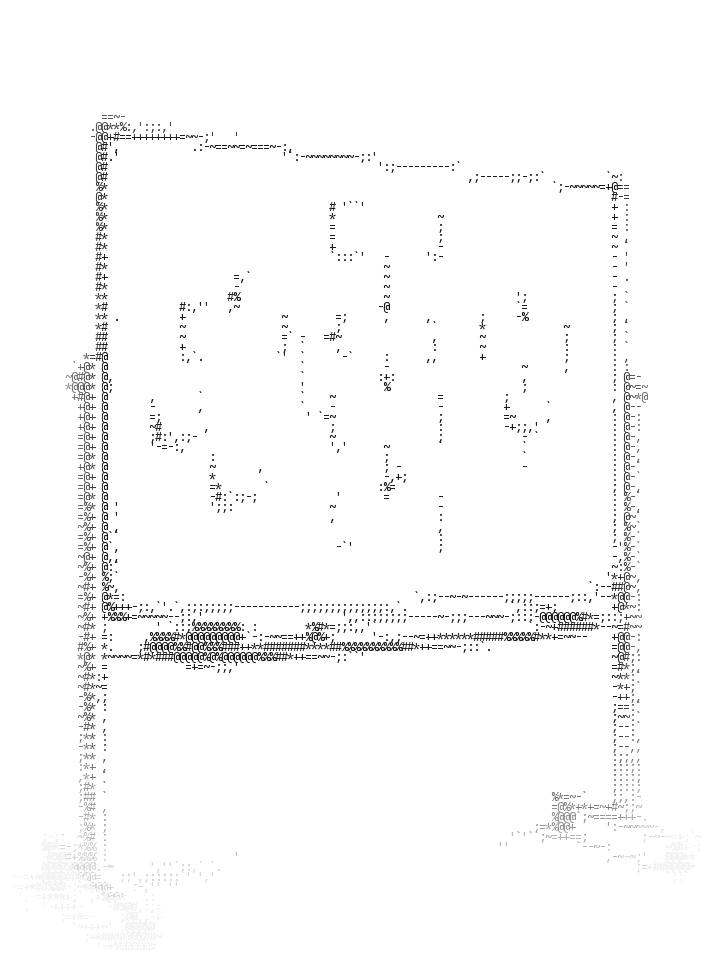
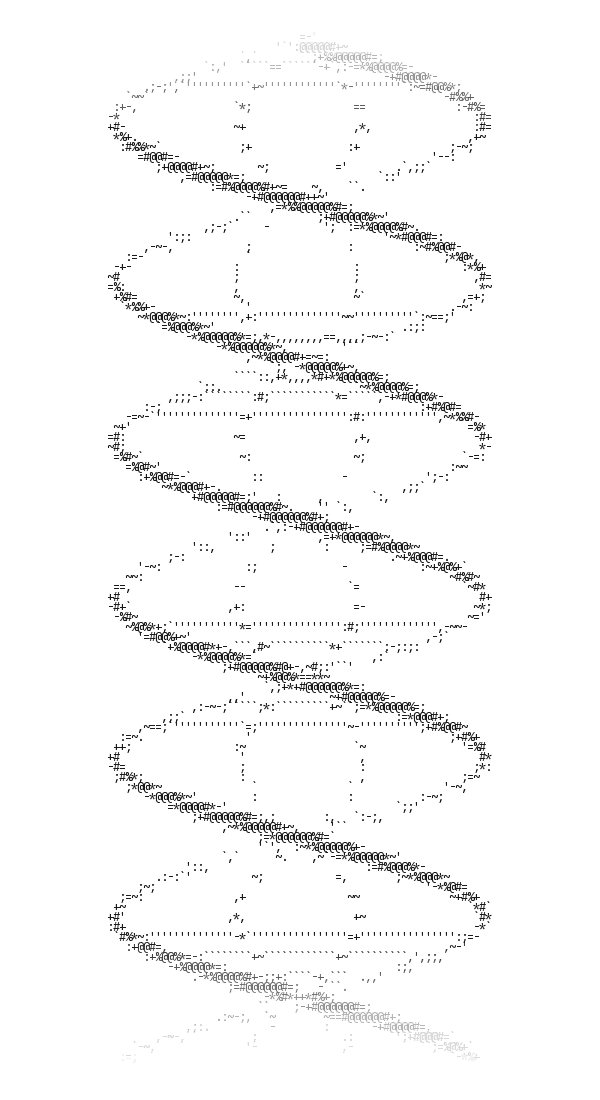
Remove meta strip, footer line, VEVA source note and contact intro; VEVA plate is a vertical ASCII DNA helix (procedural source)

diff --git a/style.css b/style.css
@@ -51,7 +51,7 @@ h3 { font-size: 17px; font-weight: 600; letter-spacing: -0.005em; line-height: 1
   border-right: 1px solid var(--line);
   min-height: 100vh;
 }
-section, .top, .foot, .hero-grid, .hero-meta { border-bottom: 1px solid var(--line); }
+section, .top, .foot, .hero-grid { border-bottom: 1px solid var(--line); }
 section { padding: clamp(40px, 6vw, 72px) var(--pad); }
 
 /* Labels and display type */
@@ -122,7 +122,6 @@ h2.dots { font-size: clamp(34px, 6vw, 68px); }
 .plate-hero { position: absolute; inset: 0; width: 100%; height: 100%; object-fit: cover; object-position: 60% 0; }
 .lead { max-width: 30ch; font-size: clamp(17px, 1.6vw, 19px); line-height: 1.5; margin-bottom: 28px; }
 .ctas { display: flex; flex-wrap: wrap; gap: 12px; }
-.hero-meta { border-left: 0; border-right: 0; border-top: 0; }
 .btn {
   display: inline-block;
   padding: 14px 20px;
@@ -137,8 +136,8 @@ h2.dots { font-size: clamp(34px, 6vw, 68px); }
 .btn.ghost:hover { background: var(--paper-2); border-color: var(--ink); }
 
 /* ASCII plates in the body sections */
-.veva-body { display: grid; grid-template-columns: 280px 1fr; gap: 28px; align-items: start; }
-.plate-veva { width: 100%; height: auto; display: block; }
+.veva-body { display: grid; grid-template-columns: 300px 1fr; gap: 28px; align-items: stretch; }
+.plate-veva { width: 100%; height: 100%; object-fit: cover; object-position: center; display: block; }
 .plate-step { width: 100%; height: auto; display: block; margin: -6px 0 10px; }
 .plate-contact { width: 100%; height: auto; display: block; margin: -12px 0 12px; }
 
@@ -215,7 +214,7 @@ h2.dots { font-size: clamp(34px, 6vw, 68px); }
 .channels a { font-size: clamp(17px, 2.2vw, 22px); font-weight: 500; letter-spacing: -0.01em; overflow-wrap: anywhere; }
 
 /* Footer */
-.foot { padding: 24px var(--pad); display: flex; justify-content: space-between; gap: 16px; flex-wrap: wrap; font-size: 13px; color: var(--muted); border-bottom: 0; }
+.foot { padding: 24px var(--pad); display: flex; justify-content: flex-end; gap: 16px; flex-wrap: wrap; font-size: 13px; color: var(--muted); border-bottom: 0; }
 
 /* Responsive */
 @media (max-width: 1150px) {
@@ -233,7 +232,7 @@ h2.dots { font-size: clamp(34px, 6vw, 68px); }
 }
 @media (max-width: 760px) {
   .veva-body { grid-template-columns: 1fr; }
-  .plate-veva { max-height: 320px; width: auto; max-width: 100%; }
+  .plate-veva { height: 360px; width: 100%; object-fit: contain; }
   .top { grid-template-columns: 1fr auto; }
   .top nav { display: none; }
   .hero-grid { grid-template-rows: auto auto 340px; }

diff --git a/scripts/helix.py b/scripts/helix.py
@@ -1,0 +1,45 @@
+#!/usr/bin/env python3
+"""Draws a vertical DNA double helix as a grayscale source for ascii.py → assets/ascii-src/dna.jpg"""
+import math
+from pathlib import Path
+from PIL import Image, ImageDraw, ImageFilter
+
+W, H = 900, 1600
+SS = 2
+im = Image.new("L", (W * SS, H * SS), 255)
+d = ImageDraw.Draw(im)
+cx, amp, turns = W * SS / 2, W * SS * 0.30, 3.2
+steps = 2200
+pts = []
+for i in range(steps + 1):
+    t = i / steps
+    y = 60 * SS + t * (H * SS - 120 * SS)
+    ph = t * turns * 2 * math.pi
+    pts.append((y, ph))
+
+# rungs first (behind), then strands, shaded by depth
+for i in range(0, steps + 1, steps // 48):
+    y, ph = pts[i]
+    x1 = cx + amp * math.sin(ph); x2 = cx + amp * math.sin(ph + math.pi)
+    depth = (math.cos(ph) + 1) / 2          # 0 back .. 1 front
+    g = int(175 - 70 * depth)
+    d.line([(x1, y), (x2, y)], fill=g, width=int(5 * SS))
+    for k in (0.33, 0.66):                   # base-pair beads
+        x = x1 + (x2 - x1) * k
+        d.ellipse([x - 7 * SS, y - 7 * SS, x + 7 * SS, y + 7 * SS], fill=g - 30)
+
+for strand in (0, math.pi):
+    prev = None
+    for y, ph in pts:
+        x = cx + amp * math.sin(ph + strand)
+        depth = (math.cos(ph + strand) + 1) / 2
+        w = int((10 + 12 * depth) * SS)
+        g = int(185 - 175 * depth)
+        if prev:
+            d.line([prev, (x, y)], fill=g, width=w)
+        prev = (x, y)
+
+im = im.resize((W, H), Image.LANCZOS).filter(ImageFilter.GaussianBlur(0.6))
+out = Path(__file__).resolve().parent.parent / "assets/ascii-src/dna.jpg"
+im.save(out, quality=90)
+print(out)

diff --git a/scripts/ascii.py b/scripts/ascii.py
@@ -20,7 +20,7 @@ RAMP = " .'`,:;-~=+*#%@"          # light → dark
 # name: (source, output size, crop box as fractions (l,t,r,b), mirror, fades (l,t,r,b) as fraction of width/height)
 PLATES = {
     "hero":    ("hero.jpg",    (960, 1280), (0, 0, 1, 1),        True,  (0.25, 0.0, 0.0, 0.5)),
-    "veva":    ("veva.jpg",    (720, 960),  (0, 0, 1, 1),        False, (0.15, 0.15, 0.15, 0.25)),
+    "veva":    ("dna.jpg",     (600, 1100), (0, 0, 1, 1),        False, (0.1, 0.12, 0.1, 0.15)),
     "step1":   ("step1.jpg",   (800, 600),  (0, 0.12, 1, 0.87),  False, (0.15, 0.15, 0.15, 0.2)),
     "step2":   ("veva.jpg",    (800, 600),  (0.1, 0.05, 0.9, 0.65), False, (0.15, 0.15, 0.15, 0.2)),  # temporary crop until the laptop plate exists
     "step3":   ("step3.jpg",   (800, 600),  (0, 0.12, 1, 0.87),  False, (0.15, 0.15, 0.15, 0.2)),
